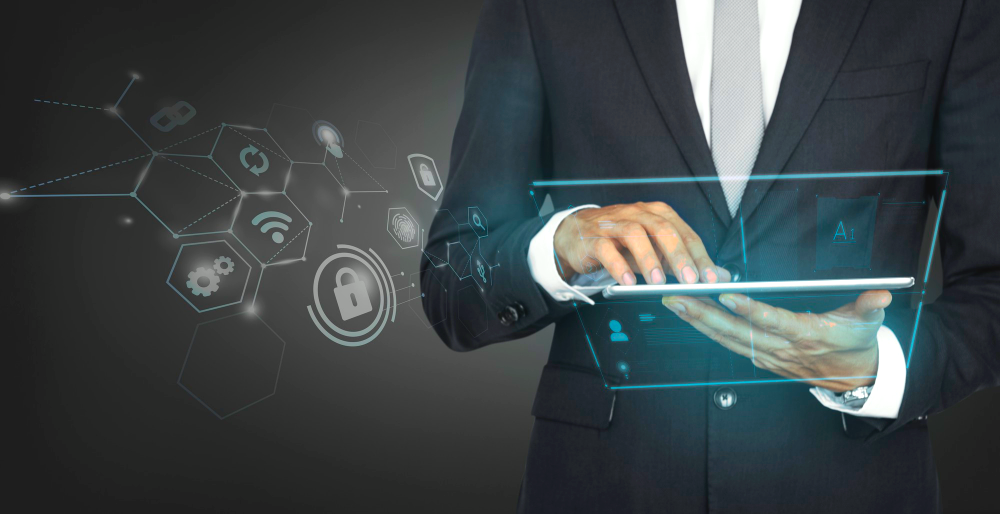
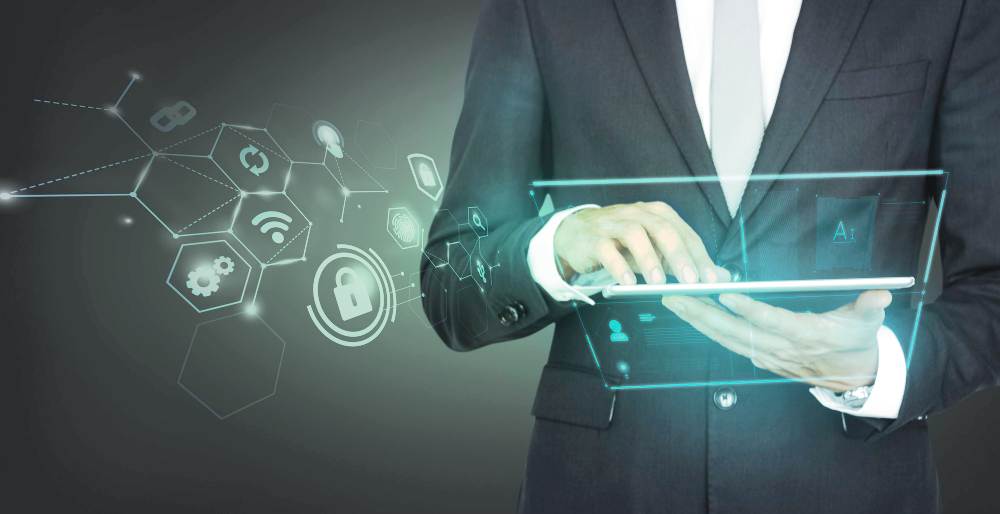
push

diff --git a/work.html b/work.html
@@ -183,7 +183,7 @@
       <!-- breadcrumb-area-start -->
       <section
         class="breadcrumb-area breadcrumb-overlay pb-115 pt-195 p-relative jarallax"
-        data-background="assets/img/breadcrumb/breadcrumb-bg-1.jpg"
+        data-background="assets/img/banner/work2.jpg"
       >
         <div class="container">
           <div class="row">
